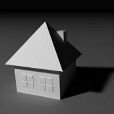
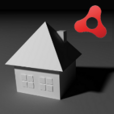
add air assets to generation script

diff --git a/build/generate-assets.js b/build/generate-assets.js
@@ -7,6 +7,14 @@ var CONCURRENCY_LIMIT = 5;
 async.series([
   generateIcons.bind(null, "assets/icon-base-173x173.png", [
     // ["FRAMEWORK-OVERLAY", "TARGET", WIDTH],
+    ["assets/frameworks/air.png", "air/src/com/propertycross/assets/icon16x16.png", 16],
+    ["assets/frameworks/air.png", "air/src/com/propertycross/assets/icon32x32.png", 32],
+    ["assets/frameworks/air.png", "air/src/com/propertycross/assets/icon36x36.png", 36],
+    ["assets/frameworks/air.png", "air/src/com/propertycross/assets/icon48x48.png", 48],
+    ["assets/frameworks/air.png", "air/src/com/propertycross/assets/icon57x57.png", 57],
+    ["assets/frameworks/air.png", "air/src/com/propertycross/assets/icon72x72.png", 72],
+    ["assets/frameworks/air.png", "air/src/com/propertycross/assets/icon114x114.png", 114],
+    ["assets/frameworks/air.png", "air/src/com/propertycross/assets/icon128x128.png", 128],
     ["assets/frameworks/jquerymobile.png", "jquerymobile/android/assets/icons/36x36.png", 36],
     ["assets/frameworks/jquerymobile.png", "jquerymobile/android/assets/icons/48x48.png", 48],
     ["assets/frameworks/jquerymobile.png", "jquerymobile/android/assets/icons/72x72.png", 72],
@@ -29,6 +37,7 @@ async.series([
 
   generateSplashscreens.bind(null, "assets/splashscreen-bottom-640x640.png", [
     // ["TARGET", WIDTH, HEIGHT],
+    ["air/src/com/propertycross/assets/splash.png", 320, 480],
     ["jquerymobile/android/assets/splashscreens/200x320.png", 200, 320],
     ["jquerymobile/android/assets/splashscreens/320x480.png", 320, 480],
     ["jquerymobile/android/assets/splashscreens/480x800.png", 480, 800],
